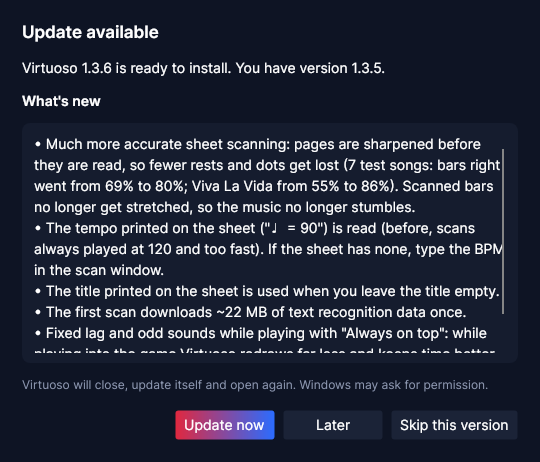
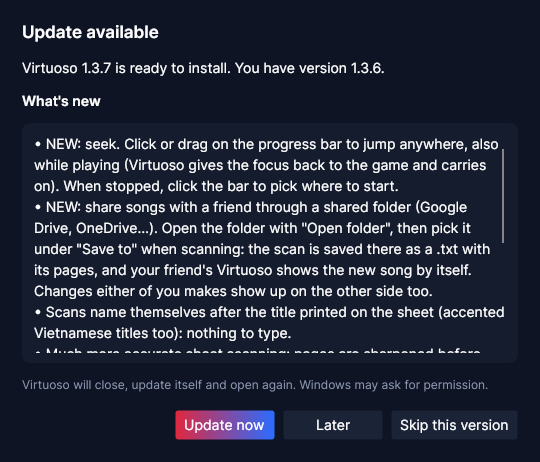
Add files via upload

Changed region(s): [[0.0593, 0.303, 0.9481, 0.7879], [0.1778, 0.1212, 0.7111, 0.1818], [0.5926, 0.7576, 0.6222, 0.7879]]

diff --git a/README.md b/README.md
@@ -37,6 +37,8 @@ Load a sheet or a MIDI file, press **F8** in the game, and listen.
 | 📂 **Your own folders** | Click **Open folder** and every sheet and MIDI file in it shows up in the list, sub-folders included. Files stay where they are, and new ones appear by themselves. You can also drag files or folders onto the window. |
 | ✨ **Follow along** | While a song plays, the note being played lights up in the sheet and the editor scrolls with it. An on-screen piano shows which keys are pressed. |
 | 📷 **Scan sheet music** <sup>beta</sup> | Cut a page of piano sheet music with <kbd>Win</kbd>+<kbd>Shift</kbd>+<kbd>S</kbd> and press <kbd>Ctrl</kbd>+<kbd>V</kbd> in Virtuoso — or drop images or a PDF on the window. Virtuoso reads the notes and writes a sheet you can play right away, with the original pages beside the editor so you can check and fix it. |
+| ⏩ **Seek** | Click or drag on the progress bar to jump anywhere in the song — also while it plays into the game. |
+| 🤝 **Share with a friend** | Link a folder you both sync (Google Drive, OneDrive…): sheets you scan into it show up in your friend's Virtuoso by themselves, original pages included. |
 | 🔊 **Listen first** | The speaker button plays the song through your speakers, without sending any keys to the game. |
 | 🧾 **MusicXML** | Import `.musicxml` / `.mxl` files from MuseScore, Finale, Sibelius and others; repeats and 1st/2nd endings are written out. |
 | 🪟 **Compact & always on top** | Switch to a small player that sits next to the game (<kbd>Ctrl</kbd>+<kbd>M</kbd>) and pin it above the game (<kbd>Ctrl</kbd>+<kbd>T</kbd>). The song list is one click away. |
@@ -104,10 +106,20 @@ Right-click a line in the sheet editor and choose **Play from this line** to sta
 3. Press **Scan**. It takes about 10–30 seconds per page. Title and tempo are read from the sheet; you can also type them.
 4. The new sheet opens in the editor with the **Original pages** beside it. Press the 🔊 button to listen, and fix what sounds wrong.
 
-The first scan downloads the scanner once (about 69 MB, plus 22 MB to read titles and tempo marks). It is [Audiveris](https://github.com/Audiveris/audiveris), free open-source music recognition, and everything runs on your computer — no pages are uploaded anywhere.
+The first scan downloads the scanner once (about 69 MB, plus 23 MB to read titles and tempo marks). It is [Audiveris](https://github.com/Audiveris/audiveris), free open-source music recognition, and everything runs on your computer — no pages are uploaded anywhere.
 
 > [!TIP]
 > Results are best with clean, straight pages of printed piano music: a full-width screenshot or a PDF works better than a photo taken at an angle. Notes usually come out right; the rhythm can still be off in a few bars, and D.S./D.C. jumps are not read yet.
+
+## 🤝 Sharing songs with a friend
+
+Virtuoso has no account and no server: you share songs through a folder that both of you sync, for example with Google Drive or OneDrive.
+
+1. One of you creates a folder in Google Drive (say **Our Piano Sheets**) and shares it with the other. Both install **Google Drive for desktop** so the folder is on your computers.
+2. In Virtuoso, both click **Open folder** and pick that folder.
+3. When you scan, choose the folder under **Save to**. The sheet is saved there as a `.txt` file with its original pages, and your friend's Virtuoso shows the new song by itself within a few seconds (at most ~30 s).
+
+Any `.txt` or `.mid` file either of you puts in the folder appears too, and when one of you fixes a sheet, the other sees the new version.
 
 ## 🎼 Sheet formats
 
@@ -210,6 +222,11 @@ Virtuoso does not collect or send any personal data. The only internet access is
 
 ## 📝 Changelog
 
+**1.3.7** — seek, shared folders, automatic titles
+- Seek: click or drag on the progress bar to jump anywhere, also while playing (the focus goes back to the game and the song carries on). When stopped, it picks where Play starts.
+- Share songs through a synced folder: scans can be saved straight into a linked folder (with their pages), and songs a friend adds or changes there show up by themselves.
+- Scans name themselves after the title printed on the sheet, accented Vietnamese titles included.
+
 **1.3.6** — better scans, no lag on top
 - Scanning is much more accurate: pages are sharpened before they are read, so far fewer rests, dots and flags are lost; scanned bars always keep their real length.
 - The tempo printed on the sheet ("♩ = 90") is read; if there is none, type the BPM in the scan window. The printed title is used when you leave the title empty.
@@ -250,4 +267,4 @@ Virtuoso is an independent product and is **not affiliated with, endorsed by or 
 
 © 2026 Virtuoso. All rights reserved. Use of the software is subject to the license agreement shown in the installer.
 
-The optional sheet scanner is [Audiveris](https://github.com/Audiveris/audiveris) 5.10.2, © Hervé Bitteur and the Audiveris contributors, licensed under the [GNU AGPL-3.0](https://github.com/Audiveris/audiveris/blob/5.10.2/LICENSE). It is downloaded separately, unchanged, and runs as its own program; its complete source code is at [github.com/Audiveris/audiveris/tree/5.10.2](https://github.com/Audiveris/audiveris/tree/5.10.2). Titles and tempo marks are read with the English data of [Tesseract](https://github.com/tesseract-ocr/tessdata/tree/4.1.0) (Apache-2.0), downloaded from the Tesseract project.
+The optional sheet scanner is [Audiveris](https://github.com/Audiveris/audiveris) 5.10.2, © Hervé Bitteur and the Audiveris contributors, licensed under the [GNU AGPL-3.0](https://github.com/Audiveris/audiveris/blob/5.10.2/LICENSE). It is downloaded separately, unchanged, and runs as its own program; its complete source code is at [github.com/Audiveris/audiveris/tree/5.10.2](https://github.com/Audiveris/audiveris/tree/5.10.2). Titles and tempo marks are read with the English and Vietnamese data of [Tesseract](https://github.com/tesseract-ocr/tessdata/tree/4.1.0) (Apache-2.0), downloaded from the Tesseract project.
